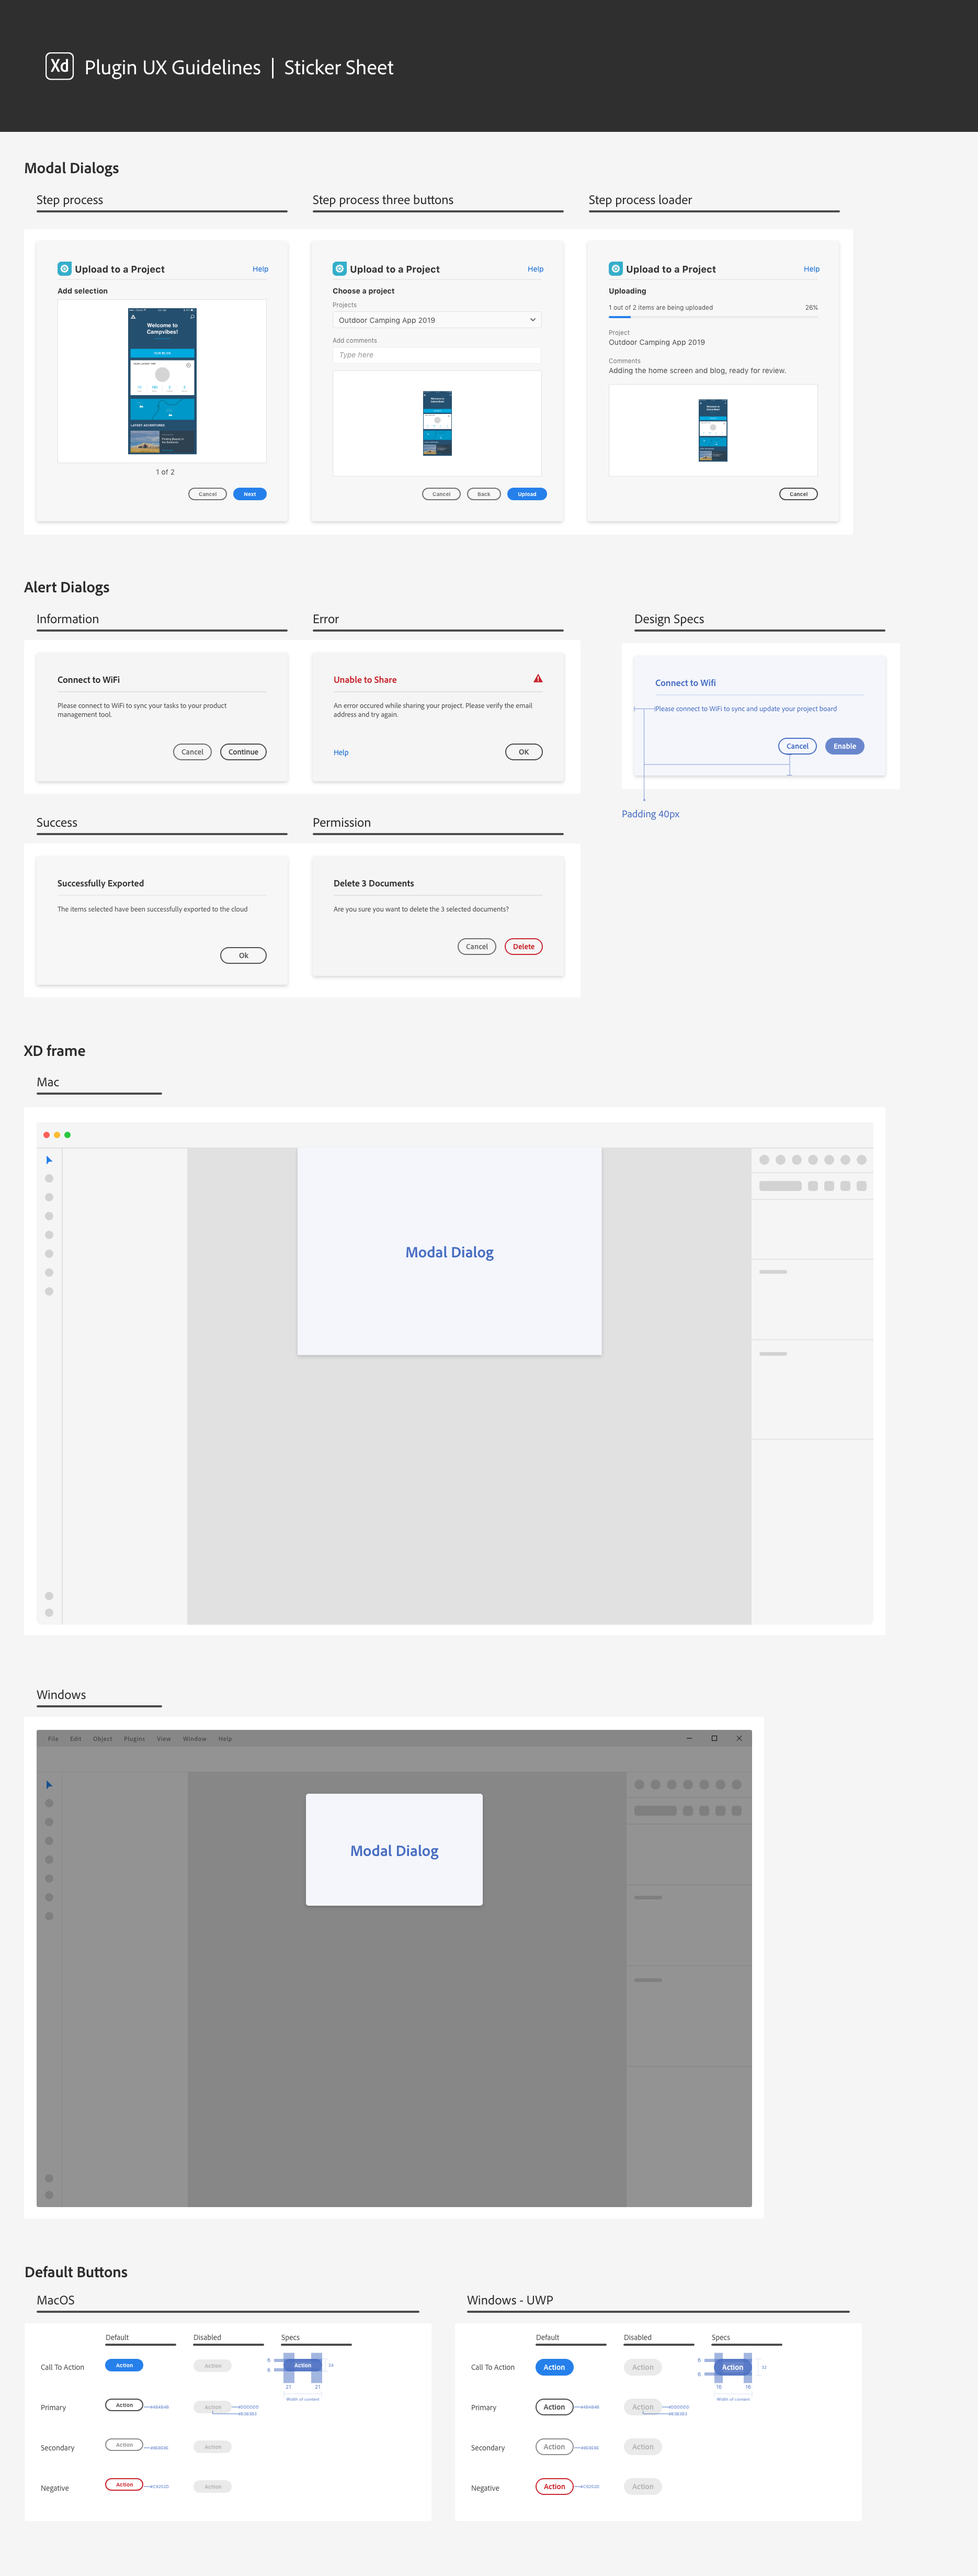
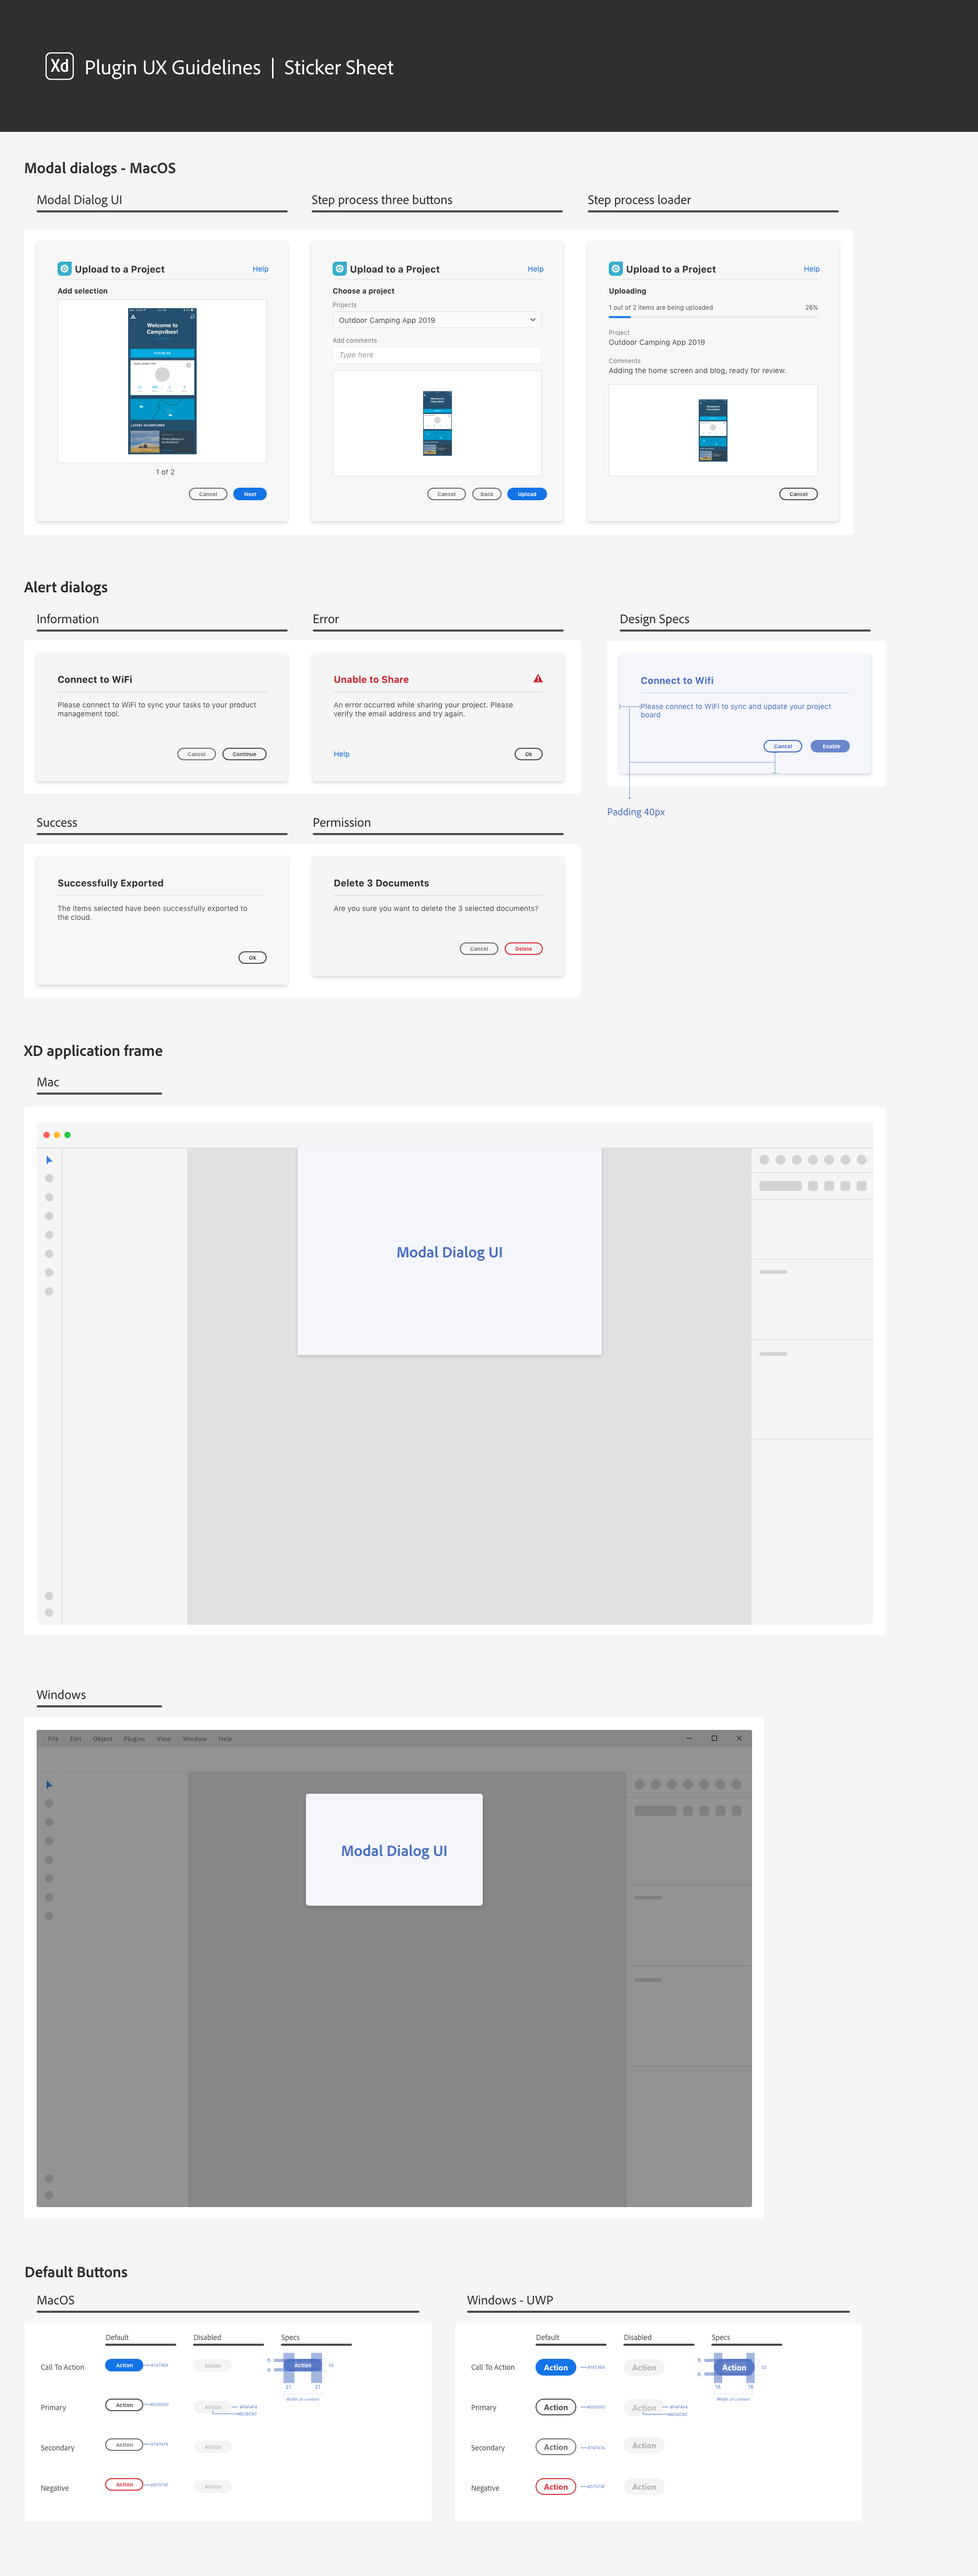
updated the format of the documents and updated the sticker sheet

diff --git a/plugin-design-guidelines/ux_guidelines/Interface_Guidelines.md b/plugin-design-guidelines/ux_guidelines/Interface_Guidelines.md
@@ -4,20 +4,16 @@
 These are guidelines and best practices on the surfaces your plugin can use.
 
 ----------
-# **Navigation**
+## **Navigation**
 
-These guidelines provide clarity on the different entry points a plugin can have. 
+These guidelines provide clarity on the different entry points a plugin can have. An entry point is how users access your plugin, users can access a plugin through the menu bar or a keyboard shortcut.
 
-## Entry points
-
-An entry point is how users access your plugin, users can access a plugin through the menu bar or a keyboard shortcut.
-
-### Menu bar
+#### Menu bar
 
 ![Entry point menu bar example](../ux_images/Menu_bar.png)
 
 
-### Keyboard shortcuts 
+#### Keyboard shortcuts 
 
 If you are considering having a shortcut for your plugin, make sure to keep these guidelines in mind. 
 
@@ -30,7 +26,7 @@ If you are considering having a shortcut for your plugin, make sure to keep thes
 - A keyboard shortcut can be used as an entry point but account for possible shortcut collisions
 
 
-### Entry Point Considerations
+#### Entry Point Considerations
 ![No Selection example](../ux_images/Entry_point_Selection.png)
 
 **Incompatible selection**
@@ -38,10 +34,11 @@ If you are considering having a shortcut for your plugin, make sure to keep thes
 - When a plugin can’t complete an action based on the object selected, then render an information dialog. 
 
 
-## **Menu bar**
+### **Menu bar**
 ![Menu bar example in XD](../ux_images/Menu_bar_Xd.png)
 
-### UX Pattern
+**Best practices**
+
 ![Menu Bar Best Practices](../ux_images/Menu_bar_reqs.png)
 
 **Content**
@@ -55,13 +52,13 @@ If you are considering having a shortcut for your plugin, make sure to keep thes
 > - **Help** - Provide the user with an external link to help documentation or an email through the submenu.
 
 
-## Top Menu 
+### Top Menu 
 
-### **Use Case**
+**Use Case**
 
 If your plugin has **one action or workflow shortcut** then the action will be the top menu item. 
 
-### **UI Pattern**
+**Best practices**
 
 ![Top Menu Example](../ux_images/Top_Menu_items.png)
 
@@ -76,13 +73,13 @@ If your plugin has **one action or workflow shortcut** then the action will be t
 > D. Limit the use of emoji’s as part of the label
 
 
-## Submenu items
+### Submenu items
 
-### **Use Cases**
+**Use Cases**
 
 if your plugin needs to handle **multiple actions** or **workflow shortcuts** then they will render as a submenu.
 
-### **UI Pattern**
+**Best practices**
 
 ![Submenu Example](../ux_images/Sub_Menu_items.png)
 
@@ -104,11 +101,11 @@ if your plugin needs to handle **multiple actions** or **workflow shortcuts** th
 **Don’t**
 > Don’t add multiple actions for one plugin as top-level items.
 
-# **Layout**
+## **Layout**
 
 There are different surface areas a plugin can render, this can vary based on the type of action and amount of context you need to provide your user.
 
-## Plugin UI
+### Plugin UI
 
 if the plugin is a simple script or doesn’t need a lot of user input then a modal UI is not required. If the user needs to set preferences, choose content or complete a step process before running the plugin then you can use the modal dialog UI. In the use case of alerts such as permission dialogs then UI would be recommended. 
 
@@ -120,13 +117,14 @@ if the plugin is a simple script or doesn’t need a lot of user input then a mo
 ![Plugin UI modal Dialog](../ux_images/Modal_dialog.png)
 
 
-## **Modal Dialog** 
+#### Modal Dialog
 
 A modal dialog is considered blocking UI - best used when the plugin needs to run an action and the user shouldn’t change selection, since user doesn’t have access to the canvas while using modal dialog UI.
 
 ![Modal Dialog UI Example](../ux_images/Layout_Xd_modal_dialog.png)
 
-### UI Pattern
+**Requirements**
+
 ![Modal requirements](../ux_images/Modal_Requirement.png)
 
 
@@ -146,11 +144,12 @@ Include a modal dismissal button to allow the user to cancel/close the modal and
 You can include a plugin icon to let the user know they are interacting with your plugin in the modal dialog
 
 
-## **Buttons & key commands**
+### **Buttons & Key Commands**
 
-### Use cases 
-
+#### Buttons
 ![Buttons](../ux_images/Buttons.png)
+
+**Use cases** 
 
 > **Call to action** 
 The call to action button communicates strong emphasis and is reserved for encouraging critical actions. There should only be one visible call to action button per section. 
@@ -164,7 +163,7 @@ The secondary button is for low emphasis. It is meant to be paired with other bu
 > **Negative**
 The negative button is for high emphasis of negative or destructive actions. It should be used sparingly. It can be displayed either in standard style (visible stroke) or in quiet style.
 
-### UX patterns
+**Best practices**
 
 > **Button Group Overflow**
 When horizontal space is limited, button groups stack vertically. They should appear in ascending order based on importance, with the most critical action at the bottom.
@@ -173,14 +172,14 @@ When horizontal space is limited, button groups stack vertically. They should ap
 The top-level action within a button group should be a call to action, primary, or negative button. The subsequent buttons should always be secondary buttons of the same style (standard or quiet). Don’t combine more than 2 button styles in a button group.
 
 
-### Button labels
+**Button labels**
 
 ![Button labels](../ux_images/Buttons_labels.png)
 
 > Button labels should be clear about the intention of the action. Button text should be 1 to 2 words and consider the number of characters.
 
 
-### Key commands
+#### Key commands
 ![Key Commands](../ux_images/Key_commands.png)
 
 > **Esc key**
@@ -190,7 +189,7 @@ The top-level action within a button group should be a call to action, primary, 
 > Executes the primary button action. 
 
 ## **Modal Dialog UI Examples**
-### Step Process Example
+#### Step Process Example
 
 The user has to complete multiple steps before executing the plugin action. Multi step dialogs are good for complex workflows but can be too many clicks for simple actions. 
 

diff --git a/plugin-design-guidelines/ux_guidelines/Provide_Feedback.md b/plugin-design-guidelines/ux_guidelines/Provide_Feedback.md
@@ -4,18 +4,18 @@
 These are the guidelines and best practices on when and how to provide users with feedback as they interact with your plugin.
 
 ----------
-# **Alert Dialogs & Messaging**
+## **Alert Dialogs & Messaging**
 
 Alerts are handled through modal dialogs. Here are some best practices and examples for plugin alert messaging. These guidelines cover when and how to clearly communicate alerts to the user, what links to include, and more. 
 
 
-## **Alert Dialogs**
+### **Alert Dialogs**
 
 Use alert messaging whenever the plugin cannot perform the intended task, dialogs are persistent until dismissed
 
 ![Information dialog in XD](../ux_images/Information_Dialog_Xd_example.png)
 
-### **UI Pattern**
+**UI Pattern**
 
 ![Alert Dialog UI Pattern - requirements](../ux_images/Alert_Requirements.png)
 
@@ -25,13 +25,13 @@ Use alert messaging whenever the plugin cannot perform the intended task, dialog
 Have a clear header that describes the error
 
 > **Message**
-Explain what error was encountered and give a clear actionable solution. Also avoid blaming the user or XD. 
+Explain what error was encountered and give a clear actionable solution. Also, avoid blaming the user or XD. 
 
 > **Dialog Buttons**
 Include at least one modal dismissal button to allow the user to dismiss/close the modal
 
 
-### **UI Recommendations**
+**UI Recommendations**
 
 ![Alert Dialog UI Recommendation](../ux_images/Alert_Recommendations.png)
 
@@ -64,38 +64,37 @@ Include at least one modal dismissal button to allow the user to dismiss/close t
 > “Please connect to WiFi to sync your tasks to your product management tool”.
 
 
-## Alert Dialog Examples
+### Alert Dialog Examples
 
-### **Incompatible selection**
+**Incompatible selection**
 
 ![Information Alert example](../ux_images/Alert_Information_example.png)
 
 > **Information dialog** - when a plugin can’t complete an action based on the object selected, render an information dialog. 
 
 
-### **Operation failed to complete**
+**Operation failed to complete**
 
 ![Information Alert example](../ux_images/Error_alert_example.png)
 
-> **Error dialog** - when a plugin can’t complete an operation, render an error dialog to let user know the operation failed and why it failed.
+> **Error dialog** - when a plugin can’t complete an operation, render an error dialog to let the user know the operation failed and why it failed.
 
-
-### **Network connectivity issue**
+**Network connectivity issue**
 
 ![Information Alert example 2](../ux_images/Alert_Information_example_2.png)
 
-> **Information dialog** - if plugin is unable to connect to the internet to complete an action, then use a information modal dialog to communicate that to the user.
+> **Information dialog** - if the plugin is unable to connect to the internet to complete an action, then use an information modal dialog to communicate that to the user.
 
 
 
 ----------
-## Success Messaging
+### Success Messaging
 
-### **Use case**
+**Use case**
 
 Use success messaging whenever the plugin successfully completes a task and has **no visual output** on the canvas.
 
-### **UI Pattern**
+**UI Pattern**
 
 ![Success Messaging example](../ux_images/Success_message_example.png)
 
@@ -111,13 +110,13 @@ Use success messaging whenever the plugin successfully completes a task and has 
 > Include at least one modal dismissal button to allow the user to dismiss/close the modal.
 
 
-## Plugin Output
+### Plugin Output
 
-If a plugin generates output that the user needs to complete a workflow, then the plugin needs to provides that information to the user.
+If a plugin generates output that the user needs to complete a workflow, then the plugin needs to provide that information to the user.
 
 **Plugin output in the UI**
 
-- In use cases like these the plugin output can be shown in the UI, copied onto the clipboard, populated on the document or generate a file. 
+- In use cases like these, the plugin output can be shown in the UI, copied onto the clipboard, populated on the document or generate a file. 
 
 - Avoid having the user go into the developer console to complete their workflow.
 
@@ -134,13 +133,13 @@ If a plugin generates output that the user needs to complete a workflow, then th
 > Require users to go into the developer console to complete an action. 
 
 ----------
-## Permission dialogs
+### Permission dialogs
 
-### **Use case**
+**Use case**
 
 Use permission dialogs when being destructive or making modifications.
 
-### **UI Pattern**
+**UI Pattern**
 
 ![Permission Dialog Example](../ux_images/Permission_dialog_example.png)
 
@@ -151,7 +150,7 @@ Use permission dialogs when being destructive or making modifications.
 Have a clear header for the dialog. 
 
 > **Message**
-Explain the destructive action or modification and ask for the users permission
+Explain the destructive action or modification and ask for the user's permission
 
 > **Dialog Buttons**
 Include a modal dismissal button to allow the user to cancel/close the modal and a negative button (red) to highlight that action. 
@@ -162,12 +161,12 @@ Include a modal dismissal button to allow the user to cancel/close the modal and
 Dismisses the dialog when the “Cancel” button is in focus
 
 
-## Loaders & Progress bars
+### Loaders & Progress bars
 
 let the user know when something is happening in the background in the plugin UI. 
 
 
-### **Determinate**
+**Determinate**
 
 ![Determinate Example](../ux_images/Determinate_loader_example.png)
 
@@ -175,7 +174,7 @@ let the user know when something is happening in the background in the plugin UI
 If the progress can be reflected on a loader. 
 
 
-### **Indeterminate**
+**Indeterminate**
 
 ![Indeterminate Example](../ux_images/Indeterminate_loader_example.png)
 

diff --git a/plugin-design-guidelines/index.md b/plugin-design-guidelines/index.md
@@ -8,14 +8,14 @@ These guidelines will help you define the best user experience for your plugin. 
 Plugins can interact with the user at different levels, for example, some plugins will have quick actions which in some use cases won’t render UI, and some will include multiple actions that need UI. 
 
 
-| [UX Guidelines](./ux_guidelines/index.md) | [UI Resources & Toolkits](/reference/ui/index.md) |
+| [UX Guidelines](./ux_guidelines/index.md) | [UI Components & Resources](/reference/ui/index.md) |
 
 
 ## UX Guidelines 
 ### Documentation
 Plugin UX guidelines include **UX requirements** and **UX best practices** that will ensure your plugin follows XD user experience patterns. 
 
-### UX Requirement
+### UX Requirements
 Requirements highlights **key XD patterns** all plugins need to follow to get approved by Adobe. 
 
 ![UX Requirement](ux_images/Requirement.png)
@@ -23,7 +23,7 @@ Requirements highlights **key XD patterns** all plugins need to follow to get ap
 > Example of a UX requirement for Alert Dialogs
 
 
-### Best practice
+### Best practices
 
 Best practices provide **recommendations** on plugin usability & behavior, user feedback, privacy, and interface guidelines. 
 
@@ -32,10 +32,10 @@ Best practices provide **recommendations** on plugin usability & behavior, user 
 > Example of a UX best practice for Alert Dialogs
 
 
-## UI Resources & Toolkits
+## UI Components & Resources
+ 
+ In this section you can find UI component examples and resources such as a sticker sheet that you can use to build your plugin.
 
-UI Resources will have information on UI components, examples and a sticker sheet you can use to build your plugin
-
-![Ui Resources](ux_images/Style_examples.png)
+![UI Components](ux_images/Style_examples.png)
 
 > **[View Sticker Sheet](./ui_resources/Sticker_sheet.md)**

diff --git a/SUMMARY.md b/SUMMARY.md
@@ -31,7 +31,7 @@
     * [Usability Behavior](./plugin-design-guidelines/ux_guidelines/Usability_Behavior.md)
     * [Interface Guidelines](./plugin-design-guidelines/ux_guidelines/Interface_Guidelines.md)
     * [Provide Feedback](./plugin-design-guidelines/ux_guidelines/Provide_Feedback.md)
-  * [UI Resources & Toolkits](./reference/ui/index.md)
+  * [UI Components & Resources](./plugin-design-guidelines/ui_resources/index.md)
     * [User Interface Components](./reference/ui/index.md)
       * [Styles](./reference/ui/styles/index.md)
         * [Color](./reference/ui/styles/color.md)
@@ -54,7 +54,7 @@
       * [Modal dialogs](./reference/ui/dialogs/index.md)
         * [Showing dialogs](./reference/ui/dialogs/showing.md)
         * [Dismissing dialogs](./reference/ui/dialogs/dismissal.md)
-    * [Sticker Sheet](./plugin-design-guidelines/ui_resources/Sticker_sheet.md)
+    * [Resources](./plugin-design-guidelines/ui_resources/Sticker_sheet.md)
 * [Step-by-step Tutorials](./tutorials/index.md)
   * [Working with content](./tutorials/content-index.md)
     * [How to draw lines](./tutorials/how-to-draw-lines/index.md)

diff --git a/plugin-design-guidelines/ui_resources/index.md b/plugin-design-guidelines/ui_resources/index.md
@@ -1,6 +1,6 @@
-# UI Resources & Toolkits
+# UI Components & Resources
 
-Plugin UI Resources & Toolkits will provide guidance around the different components you can use to build a plugin UI. It covers the styles, elements and building a layout. For guidance around the design patterns and best practices refer to the [UX guidelines](../ux_guidelines/index.md).
+Plugin UI Components & Resources will provide guidance around the different elements you can use to build a plugin UI. It covers everthing from styles to building a layout. For guidance around the design patterns and best practices refer to the [UX guidelines](../ux_guidelines/index.md).
 
 XD plugins can display UI in the form of modal dialogs, built with JavaScript and a supported subset of HTML and CSS.
 

diff --git a/plugin-design-guidelines/ui_resources/Sticker_sheet.md b/plugin-design-guidelines/ui_resources/Sticker_sheet.md
@@ -1,3 +1,3 @@
-# Sticker Sheet 
+# Resources - Sticker Sheet 
 
 ![Sticker sheet](../ux_images/Sticker_sheet.png)
